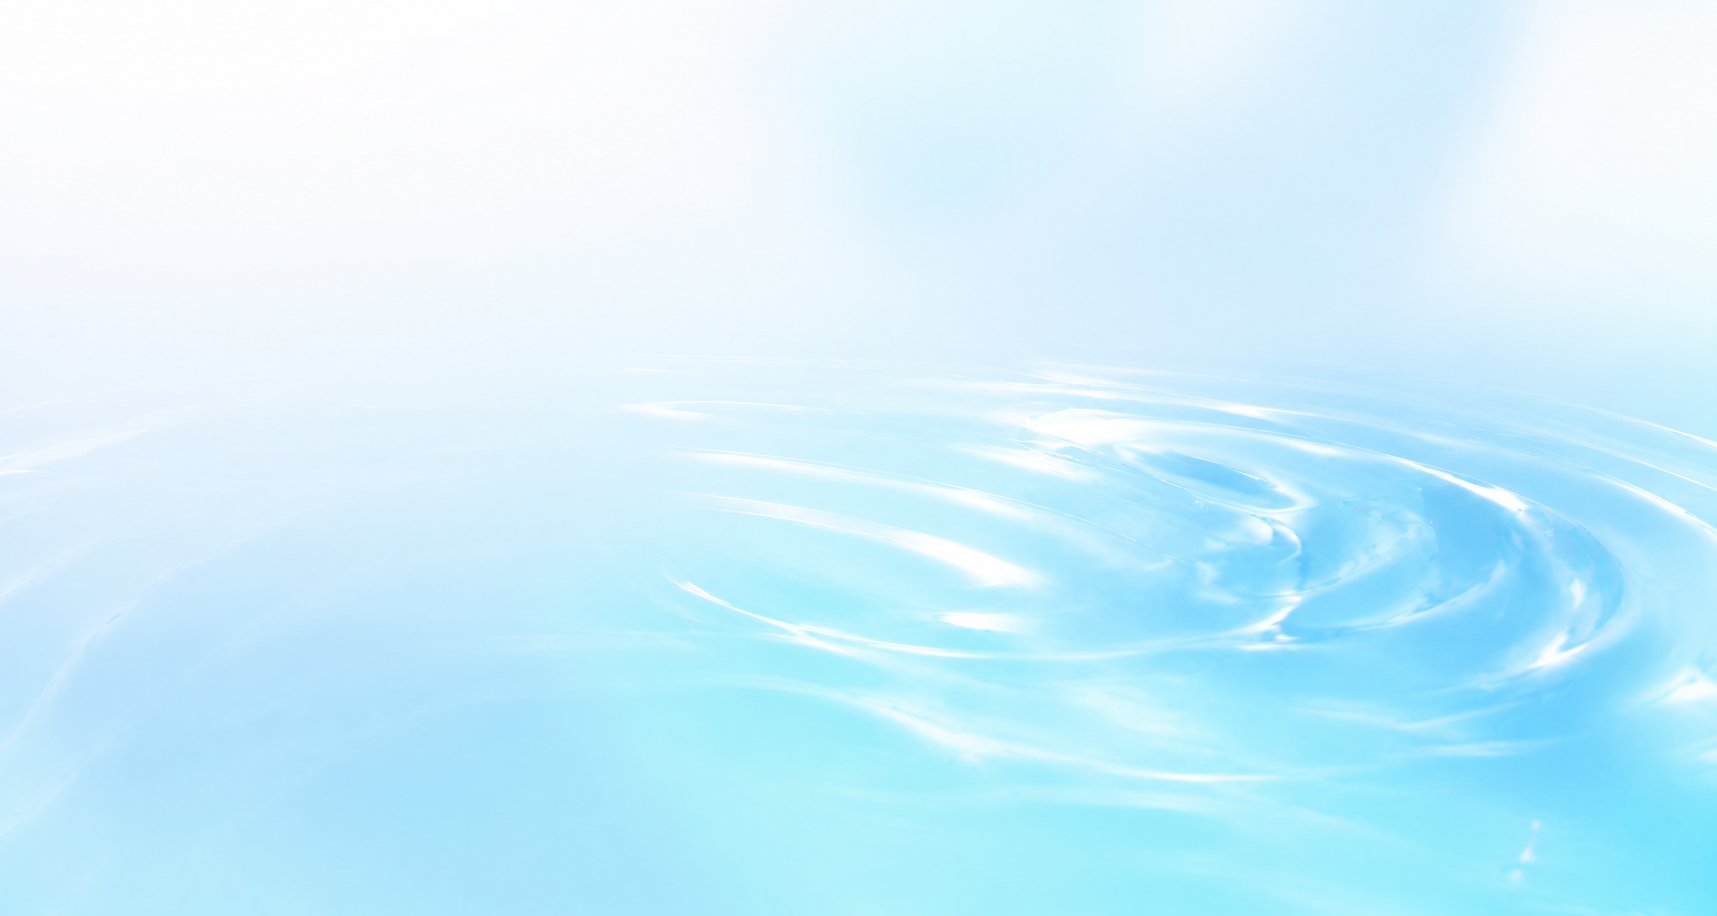
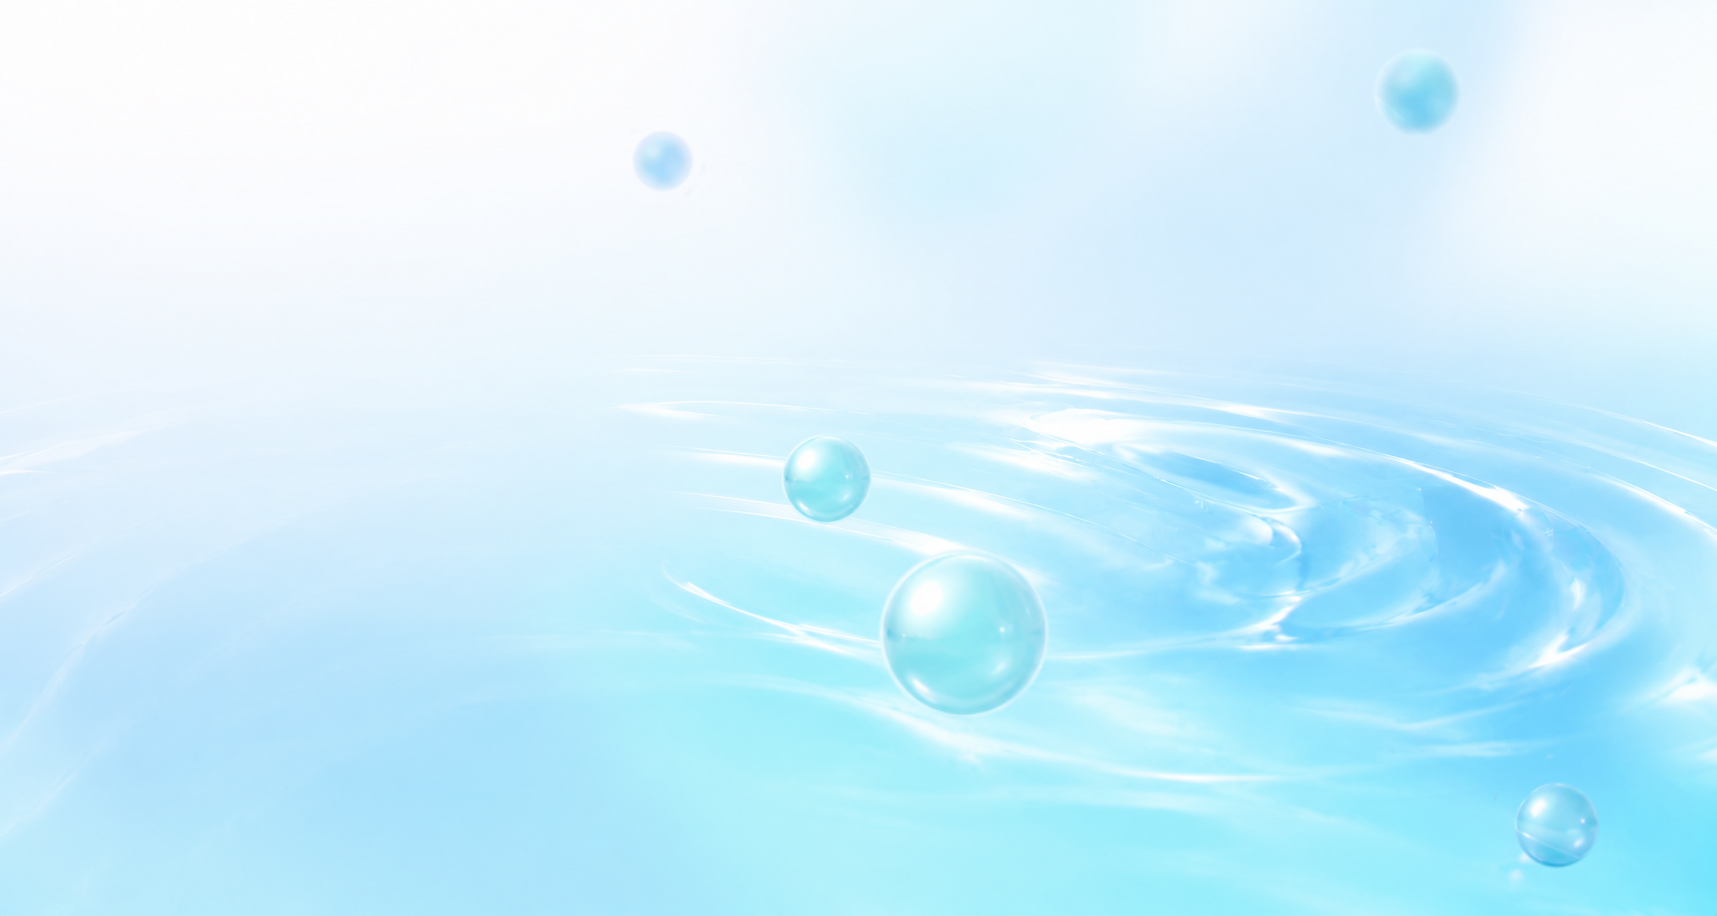
Hero atualizada

diff --git a/src/App.jsx b/src/App.jsx
@@ -30,8 +30,6 @@ const featureItems = [
 const statItems = [
   { icon: '🗂', value: '10+', label: 'Projetos entregues' },
   { icon: '➕', value: '100%', label: 'Clientes satisfeitos' },
-  { icon: '💚', value: '2+', label: 'Anos de experiência' },
-  { icon: '∞', value: '∞', label: 'Possibilidades criativas' },
 ]
 
 // ── Seção Hero ───────────────────────────────────────────────
@@ -61,7 +59,7 @@ function HeroSection({ navTo }) {
       <div
         className="hero-bg"
         ref={parallaxRef}
-        style={BG_IMAGE ? { backgroundImage: `url(${BG_IMAGE})`, backgroundSize: 'cover', backgroundPosition: 'center' } : undefined}
+        style={BG_IMAGE ? { backgroundImage: `url(${BG_IMAGE})`, backgroundSize: '2200px', backgroundPosition: 'top' } : undefined}
       ></div>
 
       {/* 🌟 Bolhas Lava Lamp, uma camada acima da box branca */}
@@ -110,7 +108,7 @@ function HeroSection({ navTo }) {
 
             <div className="hero-music-player-scale">
               <AeroMusicPlayer />
-            </div>
+            </div> 
           </div>
         </div>
 
@@ -132,29 +130,6 @@ function HeroSection({ navTo }) {
           ))}
         </AeroGrid>
       </AeroPanel>
-
-      {/* 🌟 Linha inferior: estatísticas + CTA "Vamos criar algo incrível juntos?" */}
-      <div className="hero-bottom-row" style={{ position: 'relative', zIndex: 2 }}>
-        <AeroPanel useBoxStyle variant="glass" className="hero-stats-panel">
-          <AeroGrid cols={2} gap="10px">
-            {statItems.map(s => (
-              <div key={s.label} className="hero-stat-item">
-                <span className="hero-stat-icon">{s.icon}</span>
-                <span className="hero-stat-value">{s.value}</span>
-                <span className="hero-stat-label">{s.label}</span>
-              </div>
-            ))}
-          </AeroGrid>
-        </AeroPanel>
-
-        <AeroPanel useBoxStyle variant="forest" size="lg" className="hero-cta-panel">
-          <h3 className="hero-cta-title">Vamos criar algo incrível juntos?</h3>
-          <p className="hero-cta-text">Conte sua ideia e eu transformo em realidade.</p>
-          <AeroBtn variant="glass" onClick={() => navTo?.('Contato')}>
-            Falar agora →
-          </AeroBtn>
-        </AeroPanel>
-      </div>
 
       <div className="hero-scroll-hint" style={{ position: 'relative', zIndex: 2 }}>
         <span>↓ Role para explorar </span>

diff --git a/src/App.css b/src/App.css
@@ -544,11 +544,12 @@ html, body, .aero-scene {
 }
 
 .hero-neo-img {
-  width: min(460px, 54vw);
+  width: min(200px, 54vw);
   height: auto;
   display: block;
   filter: drop-shadow(0 2px 6px rgba(255,255,255,0.55));
   animation: neoFloat 4s ease-in-out infinite;
+  margin-bottom: -4px;
 }
 
 .hero-neo-text {
@@ -636,7 +637,7 @@ html, body, .aero-scene {
 
 /* ── Faixa de destaques (Design/Tecnologia/Experiência/Personalizado) ── */
 .hero-features-panel {
-  margin-top: 56px;
+  margin-top: 20px;
   padding: 20px 28px;
 }
 
@@ -654,82 +655,6 @@ html, body, .aero-scene {
   grid-template-columns: 1fr 1.3fr;
   gap: 20px;
   margin-top: 20px;
-}
-
-.hero-stats-panel {
-  padding: 24px 28px;
-}
-
-.hero-stat-item {
-  display: flex;
-  flex-direction: column;
-  gap: 2px;
-}
-
-.hero-stat-icon {
-  font-size: 1.1rem;
-  margin-bottom: 2px;
-}
-
-.hero-stat-value {
-  font-family: 'Exo 2', sans-serif;
-  font-size: 1.6rem;
-  font-weight: 700;
-  color: #003354;
-  text-shadow: 0 1px 2px rgba(255,255,255,0.6);
-}
-
-.hero-stat-label {
-  font-size: 0.8rem;
-  color: rgba(0, 60, 90, 0.65);
-}
-
-.hero-cta-panel {
-  position: relative;
-  display: flex;
-  flex-direction: column;
-  justify-content: center;
-  gap: 8px;
-  overflow: hidden;
-}
-
-/* Bolha decorativa de vidro, ecoando o motivo das BallUserViewer3D sem
-   depender de um componente 3D extra dentro do painel de CTA. */
-.hero-cta-panel::after {
-  content: '';
-  position: absolute;
-  top: 50%;
-  right: -40px;
-  width: 160px;
-  height: 160px;
-  border-radius: 50%;
-  transform: translateY(-50%);
-  background:
-    radial-gradient(circle at 32% 28%, rgba(255,255,255,0.75) 0%, rgba(255,255,255,0) 40%),
-    radial-gradient(circle at 50% 50%, rgba(255,255,255,0.30) 0%, rgba(255,255,255,0.05) 70%);
-  box-shadow: inset 0 0 20px rgba(255,255,255,0.35);
-  pointer-events: none;
-  z-index: 0;
-}
-
-.hero-cta-panel > * {
-  position: relative;
-  z-index: 1;
-}
-
-.hero-cta-title {
-  font-family: 'Exo 2', sans-serif;
-  font-size: 1.3rem;
-  font-weight: 600;
-  color: #fff;
-  margin: 0;
-  text-shadow: 0 1px 3px rgba(0,40,30,0.35);
-}
-
-.hero-cta-text {
-  font-size: 0.92rem;
-  color: rgba(255,255,255,0.88);
-  margin: 0 0 6px;
 }
 
 .hero-scroll-hint {

diff --git a/src/components/models_viewers/BallUserViewer3D.jsx b/src/components/models_viewers/BallUserViewer3D.jsx
@@ -208,7 +208,9 @@ export function BallUserViewer3D({ top, left, color = '#36a8ac', randomizeRotati
                 height: `${widgetSize}px`,
                 zIndex: 2,
                 background: 'transparent',
-                cursor: isDraggingHTML ? 'grabbing' : 'pointer',
+                cursor: isDraggingHTML
+                    ? "url('/assets/drag_cursor.svg') 16 16, grabbing"
+                    : "url('/assets/grab_cursor.svg') 16 16, pointer",
                 touchAction: 'none'
             }}
         >
